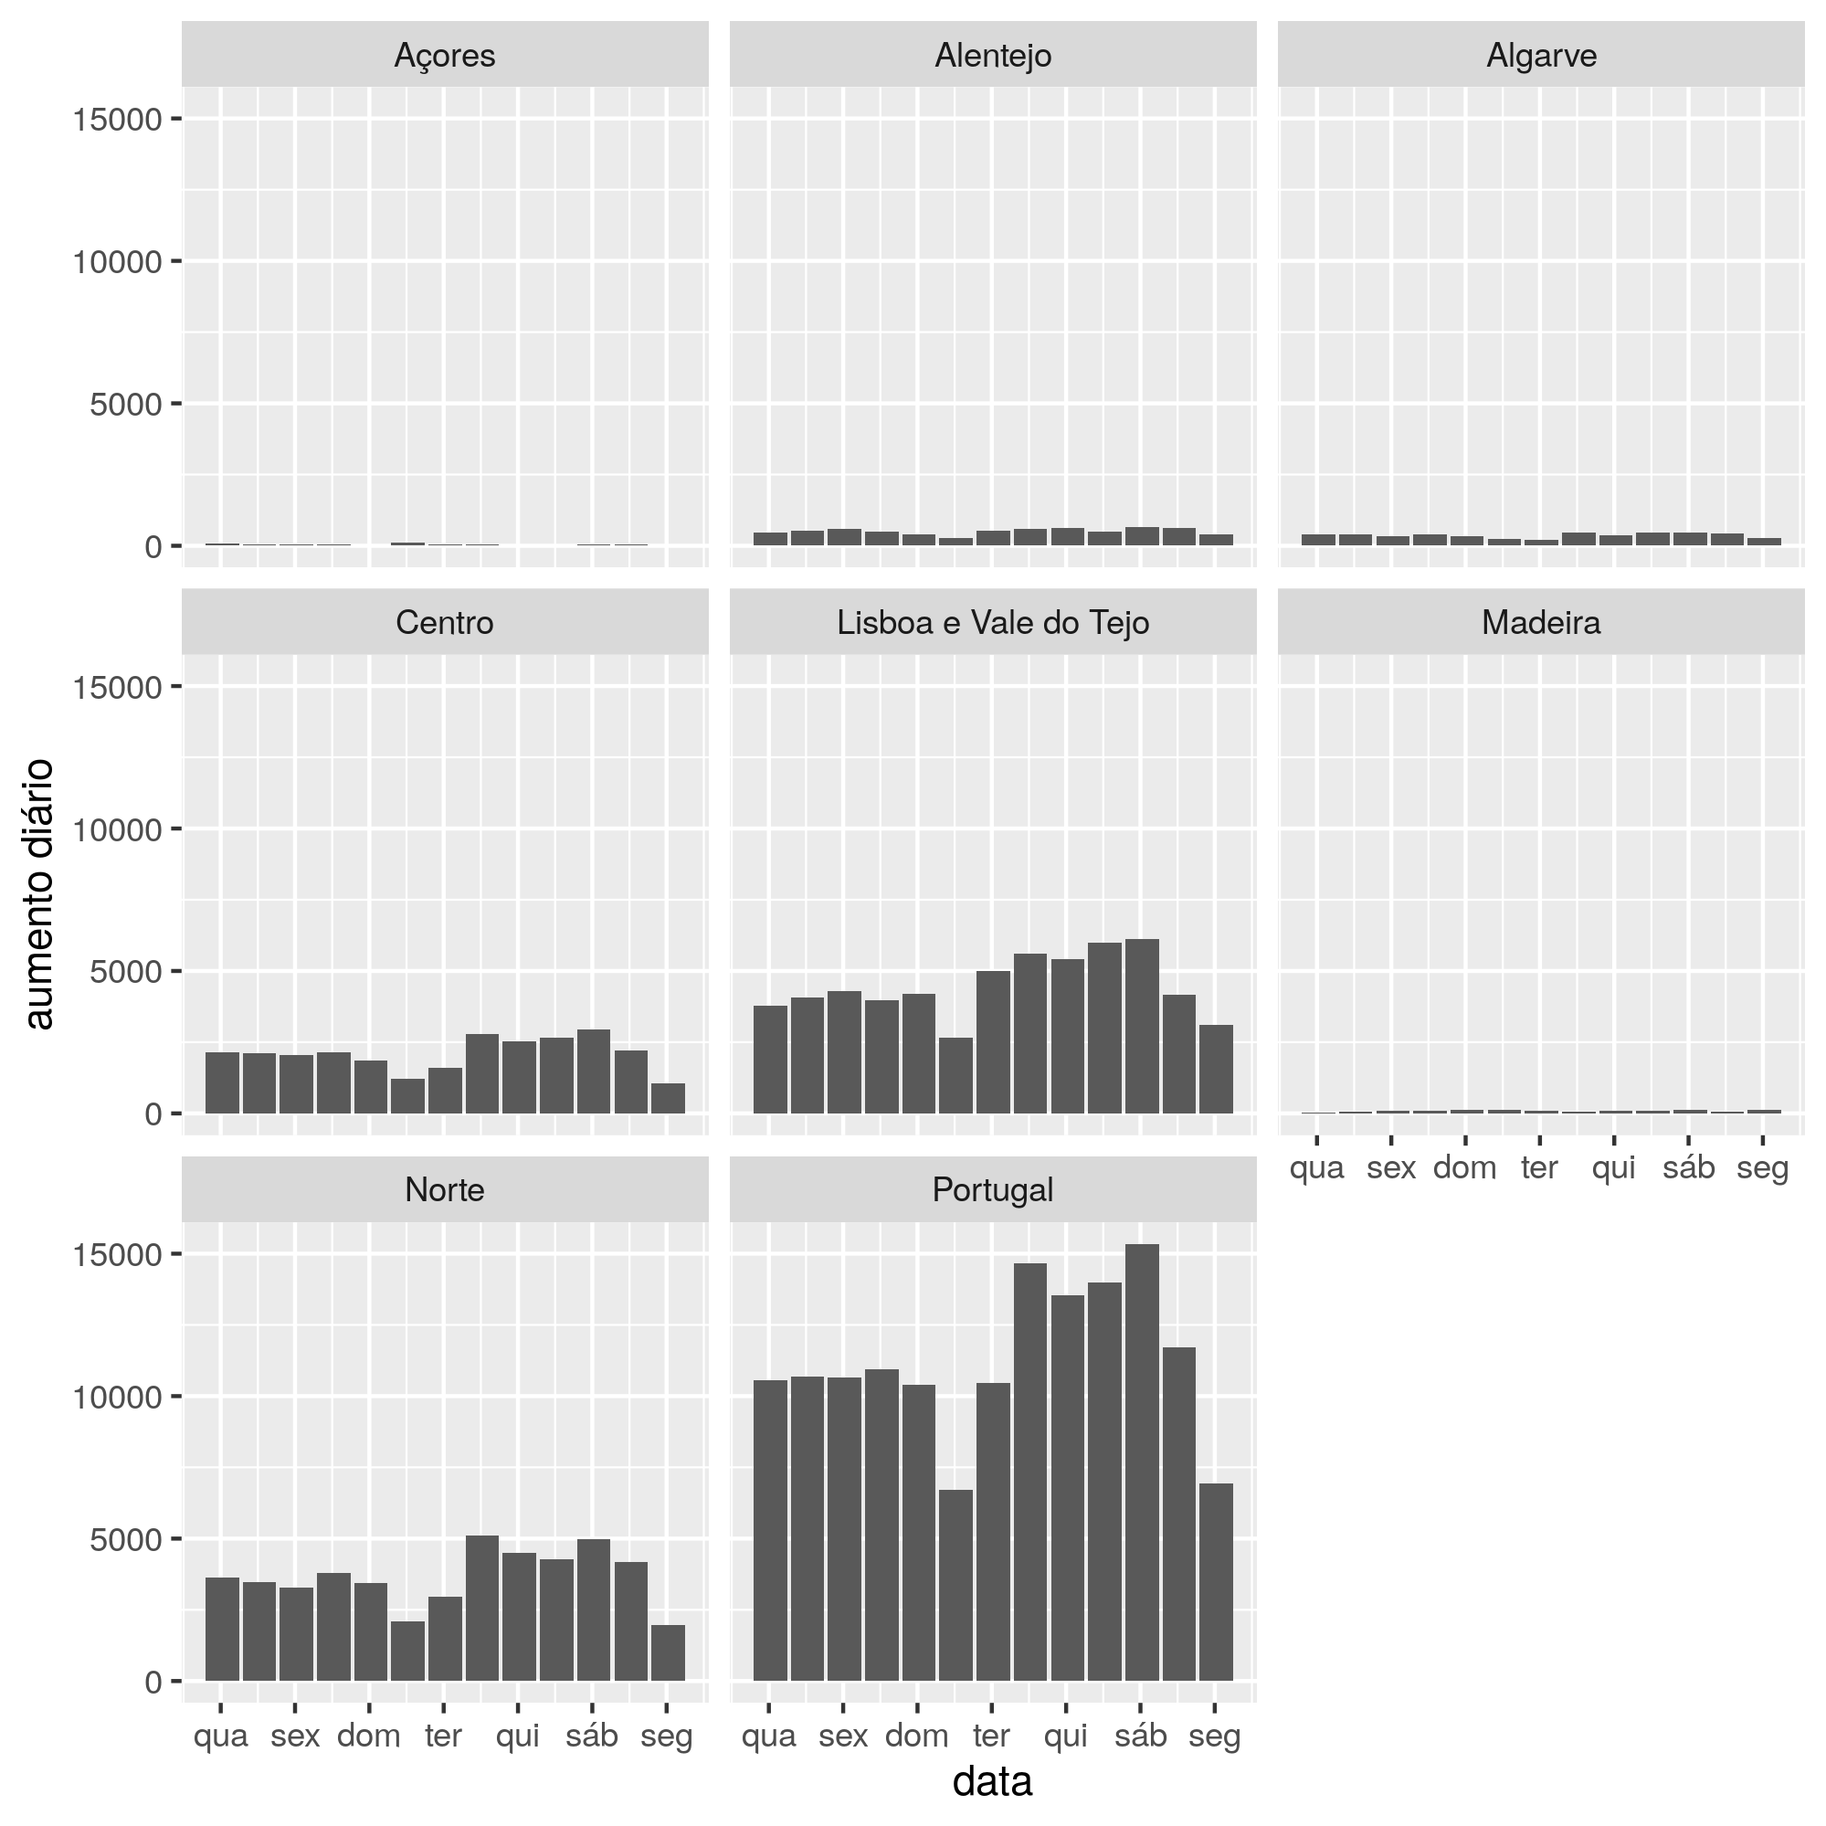
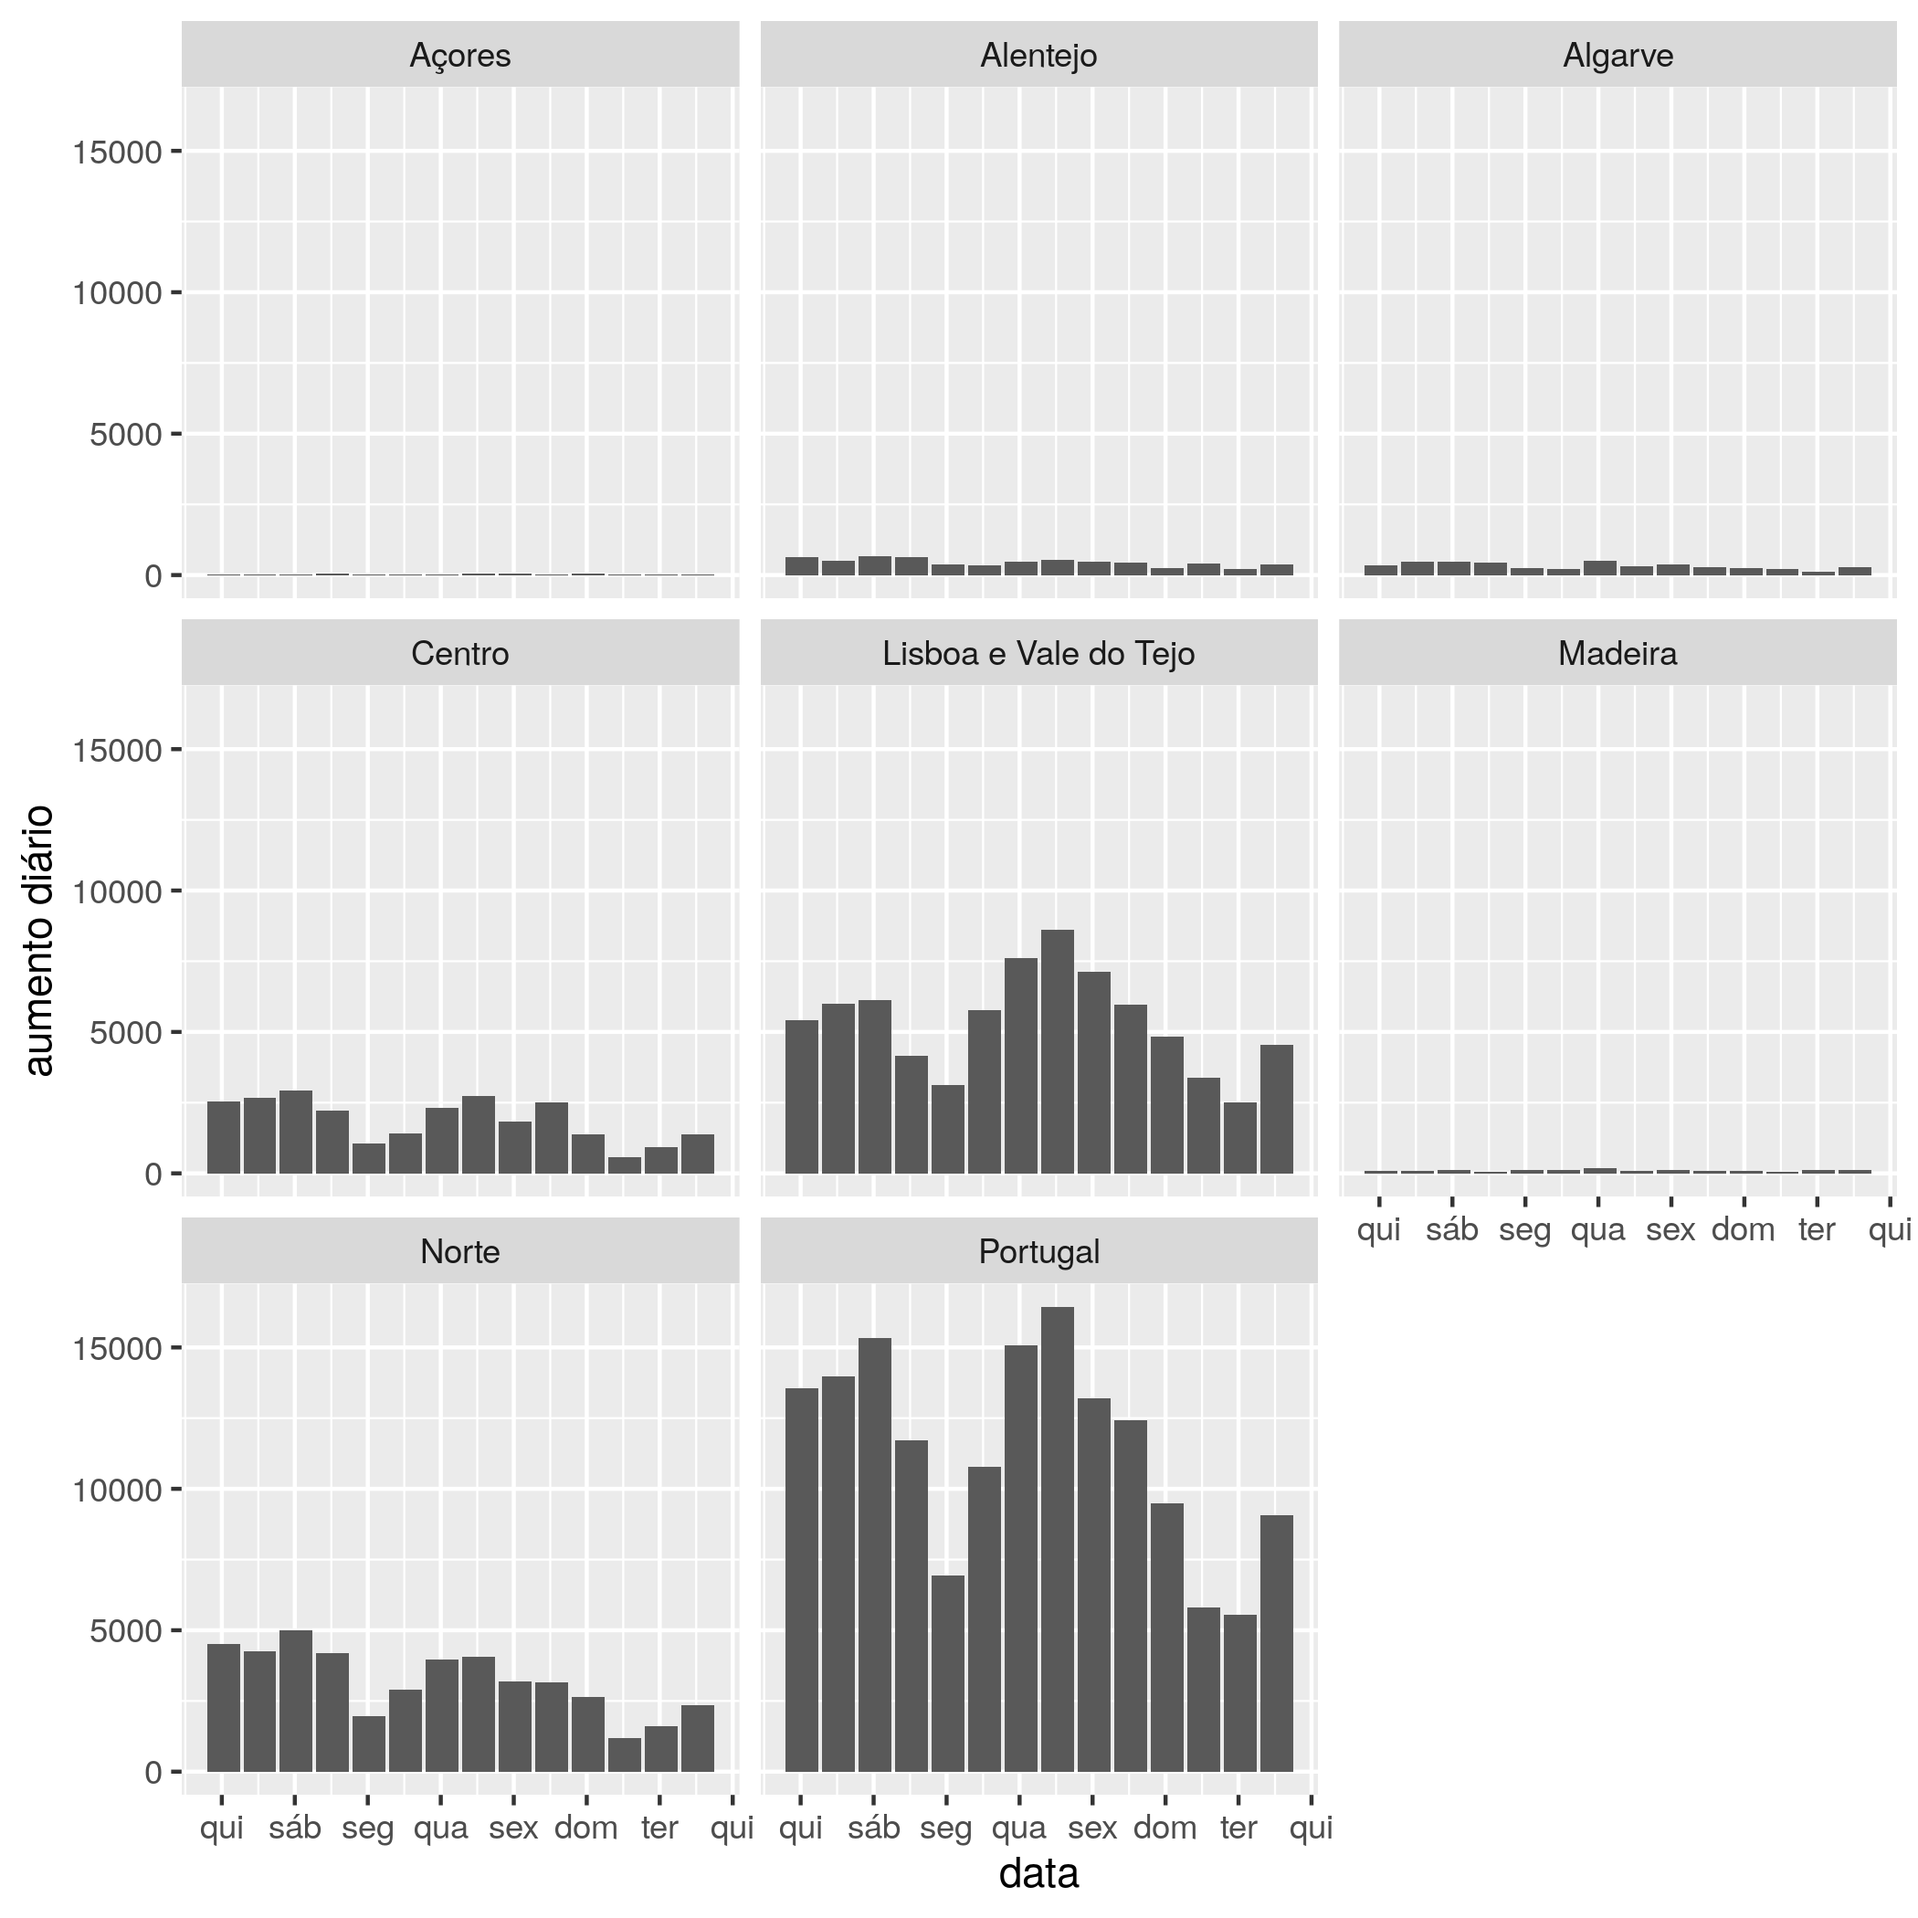
a melhorar

diff --git a/README.md b/README.md
@@ -1,7 +1,7 @@
 # Contexto
 A incidência por 100000 habitantes em 7 dias é o valor de referência para decretar regiões de risco pelas autoridades de saúde alemãs (valor charneira é 50). Gráficos atualizados diariamente. Para ajudar quem quer viajar para a Alemanha ou vir passar férias a Portugal.
 
-Dados mais recentes de 2021-01-25.
+Dados mais recentes de 2021-02-03.
 
 # Incidência por 100000 habitantes em 7 dias
 ## Últimos 30 dias
